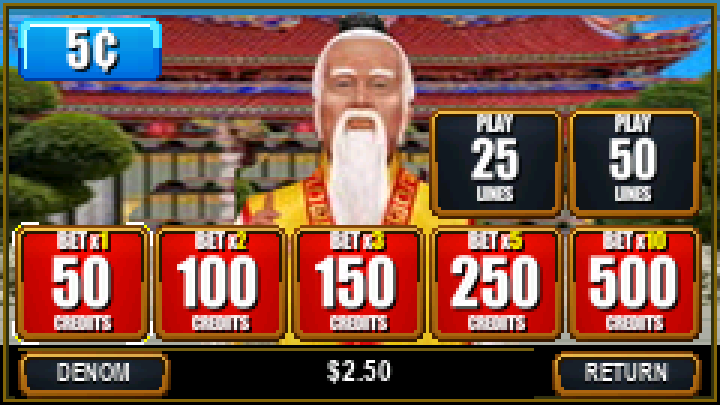
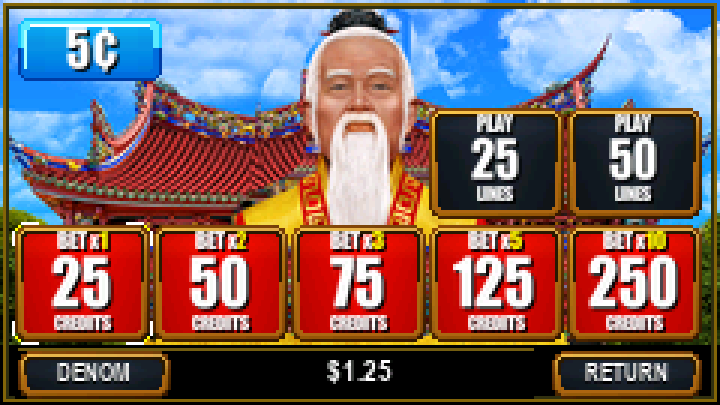
Refresh curved temple gallery and first-choice wager navigation

diff --git a/docs/wagers.md b/docs/wagers.md
@@ -31,7 +31,7 @@ The lower-right badge shows the value of a credit. For this source-qualified cab
 
 The caption is a tiny above/below adaptation for the 240 × 135 display; physical readability remains a limitation. Internal profiles outside the offered menu are not extra selectable controls. Code: [denomination badge rules](../firmware/src/denomination_minbet46.h).
 
-The screen opens with the current denomination focused. Selecting a denomination keeps the current valid line selection focused; selecting lines keeps the current offered bet multiplier focused. A valid available choice is used if the current selection is unavailable. This order also applies to denominations with one line control. Selecting lines updates the red credit amounts without spending credits.
+Development v159 starts focus at the first denomination, first PLAY LINES choice and first offered BET button, in that order. Existing choices stay marked until changed. The playable release receives this workflow at v160. This order also applies to denominations with one line control. Selecting lines updates the red credit amounts without spending credits.
 
 <img src="media/development/wagers-lines.png" alt="Denomination selected with focus on a real PLAY LINES control" width="720">
 
@@ -41,7 +41,7 @@ The [payout reference](payouts.md) exports the wider internal evaluator support 
 
 ## High Limit
 
-Settings → High Limit changes the denomination chooser to $1, $2, $5, $10, $25, $50 and $100. The cash balance is unchanged when switching modes. The chooser starts on the selected denomination; selecting it opens the line and bet controls. Hold grey returns to the reels without a paid spin. Turning High Limit off from a denomination unavailable in standard mode returns to $1.
+Settings → High Limit changes the denomination chooser to $1, $2, $5, $10, $25, $50 and $100. The cash balance is unchanged when switching modes. In development v159, the chooser starts at the first denomination; selecting a denomination opens the line and bet controls. Hold grey returns to the reels without a paid spin. Turning High Limit off from a denomination unavailable in standard mode returns to $1.
 
 The shared practice row uses 25 lines and bet multipliers 1, 2 and 3, giving 25, 50 and 75 credits. At $5, PLAY50 also offers the directly observed 3× wager: 150 credits, or $750. At $100, the middle button places a $5,000 wager. These are simulator choices, not a complete recovered factory high-limit deck.
 

diff --git a/docs/graphics.md b/docs/graphics.md
@@ -1,6 +1,6 @@
 # Graphics, animation and native gallery
 
-Gallery of the game, including the latest **0.2.157 development artwork**. The playable release remains **0.2.151**; the next tagged release is **0.2.160**. The native display is 240 × 135 pixels. Images and animations are enlarged to 720 × 405 with nearest-neighbor scaling, preserving the pixel grid.
+Gallery of the game, including the latest **0.2.159 development artwork**. The playable release remains **0.2.151**; the next tagged release is **0.2.160**. The native display is 240 × 135 pixels. Images and animations are enlarged to 720 × 405 with nearest-neighbor scaling, preserving the pixel grid.
 
 Jump to [all nine jackpot symbols](#single-double-and-triple-jackpot-symbols), [rare award screens](#rare-award-and-feature-screens), [symbol motion](#every-symbols-implemented-motion) or [feature effects](#feature-effects). Detail sheets combine enlarged crops from the rendered screens. Demonstration boards show the artwork without requiring a rare natural outcome; they are not probability samples.
 
@@ -10,7 +10,7 @@ Jump to [all nine jackpot symbols](#single-double-and-triple-jackpot-symbols), [
 
 The reel area uses five 47 × 35 symbol cells across three rows. A compact top strip carries title/feature information and the aligned meter; the footer carries CREDIT, BET, WIN and denomination. The side LEDs and cabinet surround are intentionally omitted. Larger second-display events are retargeted over the reels.
 
-The cabinet wager menu combines observed denomination, line and red BET controls on one screen. Its digital portrait and button artwork adapt the recorded cabinet layout. The [wager guide](wagers.md) distinguishes actual observed choices from internal compatibility settings.
+The denomination page shows the original Confucius portrait and curved temple roof. Selecting a denomination opens the PLAY LINES and red BET controls on the next page. The full roof comes from the manufacturer’s original character card, uniformly scaled for the landscape screen. The [wager guide](wagers.md) distinguishes actual observed choices from internal compatibility settings.
 
 <img src="media/development/wagers.png" alt="Cabinet wager selection" width="720">
 

diff --git a/docs/sources.md b/docs/sources.md
@@ -45,6 +45,12 @@ Gameplay recordings are indexed below by the features, prices and configurations
 
 Price annotations remain next to their exact branches in the [Engine](../firmware/src/phoenix_engine.h). The [compiled tables](payouts.md) record what the software does, including unresolved local fallback values. A visible payout establishes a price at its observed context; it does not estimate the event's underlying probability.
 
+## Recorded Mini and Minor prices
+
+The [DG Production recording](https://www.youtube.com/watch?v=nJhRBm39t34) shows Confucius Say at **1¢ / 50 lines / 5×**, a **$2.50 spin**. At that exact configuration, two independent collection totals identify **Mini $10**: [8:52](https://www.youtube.com/watch?v=nJhRBm39t34&t=532s) collects $40 in numeric prizes plus one Mini for $50; [13:45](https://www.youtube.com/watch?v=nJhRBm39t34&t=825s) collects $217.50 plus a Double Mini for $237.50. The [6:35 board](https://www.youtube.com/watch?v=nJhRBm39t34&t=395s) pays $130 from $40 in numeric values, four Mini units and one Minor, identifying **Minor $50**. Credit changes reconcile those totals.
+
+Development v159 applies these two prices only to that wager. Other configurations, prize frequencies and counter-trigger laws are unchanged. The uploader labels the session Las Vegas; the exact property, software and pay program remain unknown. An outcome-selected upload can qualify visible prices without supplying unbiased bonus-frequency or RTP estimates.
+
 ## Unrecovered original data
 
 The original joint reel/stop law, virtual weights, full pay programs, prize/multiplier schedules, property RTP settings, meter hazard/reset weights and complete original graphics/audio banks remain unrecovered. Aggregate denomination returns cannot identify them. See [math](math-and-evidence.md), [graphics](graphics.md) and [audio](audio.md) for the practical consequences.

diff --git a/docs/attribution.md b/docs/attribution.md
@@ -11,3 +11,5 @@ The jackpot board's Phoenix Link wordmark is adapted from manufacturer promotion
 Preserve the upstream copyright/license headers embedded in source files, including [dr_mp3](../firmware/src/third_party/dr_mp3.h) and Espressif's [spiffsgen.py](../firmware/scripts/vendor/spiffsgen.py). The repository's [third-party notices](../THIRD_PARTY_NOTICES.md) also cover downloaded framework dependencies. The included license notices govern their respective material; this project does not assume a blanket MIT or other new license over all assets.
 
 The denomination and wager scenes use the publisher’s clean Confucius figure and red temple courtyard, adapted to the small display. The denomination view also uses the original publisher wordmark. These assets come from [Aristocrat’s promotional artwork](https://test.aristocratgaming.com/aus/games/media_1577f4f554a92ac7807b529ae3af4d10605539d82.avif?format=avif&optimize=medium&width=2400); its use as artwork does not import that jurisdiction’s math or pay program.
+
+The development denomination and wager scenes use the [original manufacturer character card, preserved in the Internet Archive](https://web.archive.org/web/20241103033251id_/https://www.aristocratgaming.com/_product-assets/games-assets/confucius-say/confucius-say_gt_game-card-front.png). The curved roof and figure are scaled uniformly as separate layers. Hidden architecture behind the original figure is reconstructed from the same card’s unobscured material. The landscape layout is an adaptation for the Stick screen.

diff --git a/docs/controls.md b/docs/controls.md
@@ -18,7 +18,7 @@ The implemented long-press threshold is 850 ms. In normal game view, grey's sing
 
 ## Wager-selection screen
 
-Short grey presses move focus; blue selects the highlighted choice. The screen opens on the current denomination. Selecting a denomination focuses the currently selected line control when available. Selecting lines focuses the current bet multiplier when it is offered; otherwise a valid available choice is used. The red-button credit amounts depend on the selected lines and multiplier. Holding the large grey button applies the selected denomination and lines, activates their counter and returns directly to the game without spinning.
+Short grey presses move focus; blue selects the highlighted choice. In development v159, focus starts at the first denomination, then the first PLAY LINES choice, then the first offered BET button. Your existing choices stay marked until you select a replacement. Returning to the denomination page also starts focus at its first choice. The playable release receives this workflow at v160. The red-button credit amounts depend on the selected lines and multiplier. Holding the large grey button applies the selected denomination and lines, activates their counter and returns directly to the game without spinning.
 
 An unavailable row cannot start a paid spin. Owed features protect their existing wager; opening the screen does not change the paid round that is already in progress.
 

diff --git a/docs/getting-started.md b/docs/getting-started.md
@@ -7,7 +7,7 @@ The game starts directly at the reels. Once installed, play requires no Wi-Fi, p
 ## Start a paid spin
 
 1. Short-press the large grey side button. Its single-click action waits briefly for the double-click window, then opens the cabinet-style wager screen.
-2. Grey moves the focus and blue selects. Focus opens on the current denomination, then follows its current valid line selection and offered bet multiplier. **Selecting a funded red bet button starts a spin immediately.** Merely browsing a denomination or line does not stake credits.
+2. Grey moves the focus and blue selects. Development v159 starts focus at the first choice in each section: denomination, lines, then bet. Existing choices stay marked until selected; this navigation is scheduled for the playable v160 release. **Selecting a funded red bet button starts a spin immediately.** Merely browsing a denomination or line does not stake credits.
 3. During ordinary play, short-press blue for the next spin. A press during motion can accelerate the presentation; it cannot select a different result.
 
 The stake is `denomination × selected lines × bet multiplier`. The red buttons show the resulting credit amount. See [wagers](wagers.md) for the actual offered rows, including $1/5-line and $1/10-line choices.

diff --git a/docs/counter-entry.md b/docs/counter-entry.md
@@ -23,6 +23,10 @@ The excluded-prize column values **all** Minor, Major and Grand payments at zero
 
 Rare jackpots make a large contribution to the full-return curve. At the default wager's 1,283 entry, expected Grand payments contribute about $869 of the approximately $1,681 expected total payout. That dependence, and the nearly identical thresholds across bet multipliers, remain important calibration gaps.
 
+## Development price correction
+
+The tables above describe the playable v151 model. Development v159 changes only the observed **1¢ / 50 lines / 5×** Mini and Minor prices to **$10 and $50**. Revaluing the same outcome law gives **94.68%** local long-run full return, a full-payout 110% entry of **1,265**, and an entry of **1,779** when all Minor, Major and Grand payments are excluded. The other 76 offered wagers are unchanged. These price corrections do not calibrate the counter curve to casino results. See the [recorded prize evidence](sources.md#recorded-mini-and-minor-prices).
+
 ## What the model still assumes
 
 - The original virtual reel strips and stop frequencies are unrecovered; symbol weights and stacking are local choices.

diff --git a/CHANGELOG.md b/CHANGELOG.md
@@ -1,5 +1,14 @@
 # Current release notes
 
+## Development v159 — queued for v160
+
+- Original manufacturer portrait and full curved temple roof replace the cropped, flattened courtyard composition.
+- Wager focus starts at the first denomination, PLAY LINES choice and offered BET button; existing choices remain marked until selected.
+- Source-observed 1¢ / 50-line / 5× Mini and Minor prices are $10 and $50. The local return calculation is updated for that wager; outcome frequencies are unchanged.
+- Gallery images and animations show the current development renderer. The playable demo and firmware downloads remain at the stable release until v160.
+
+<img src="docs/media/development/wagers.png" alt="Updated original curved temple and denomination chooser" width="720">
+
 ## 0.2.151
 
 - Custom Amount drops unused leading zeros as you move right: **$1.00** instead of **$00,001.00**.
